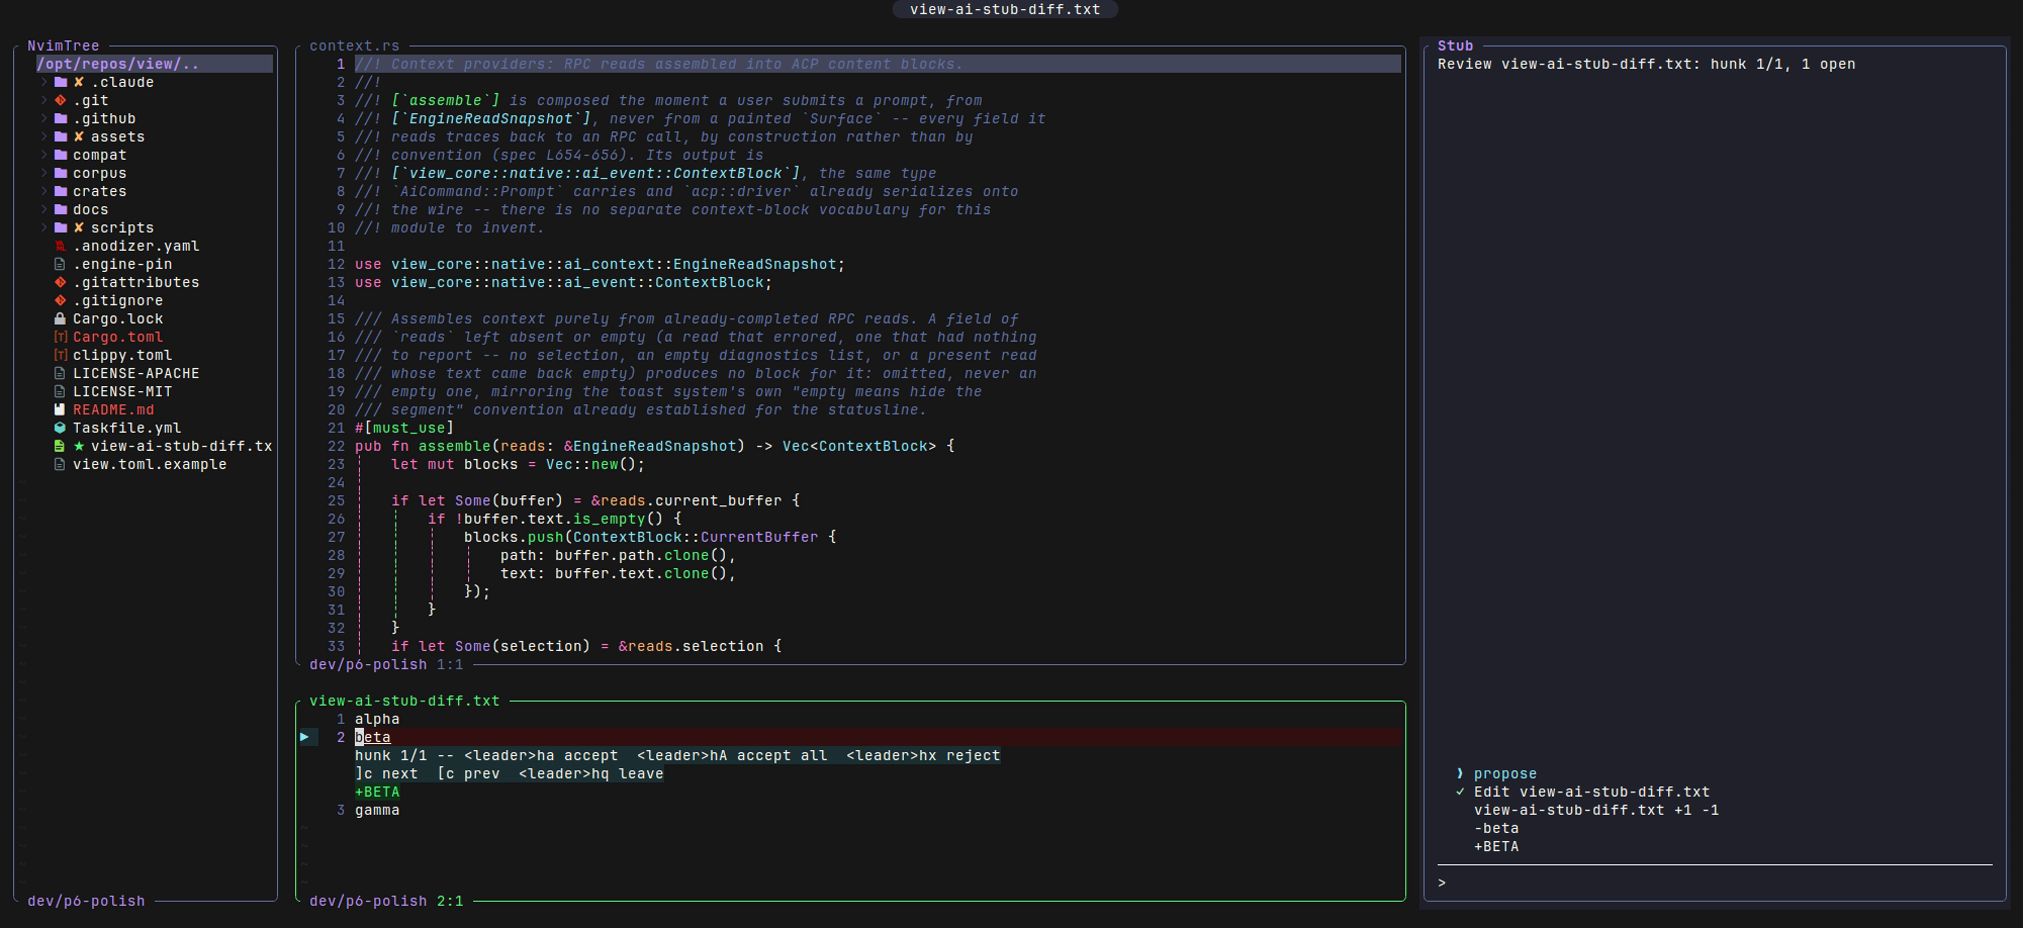
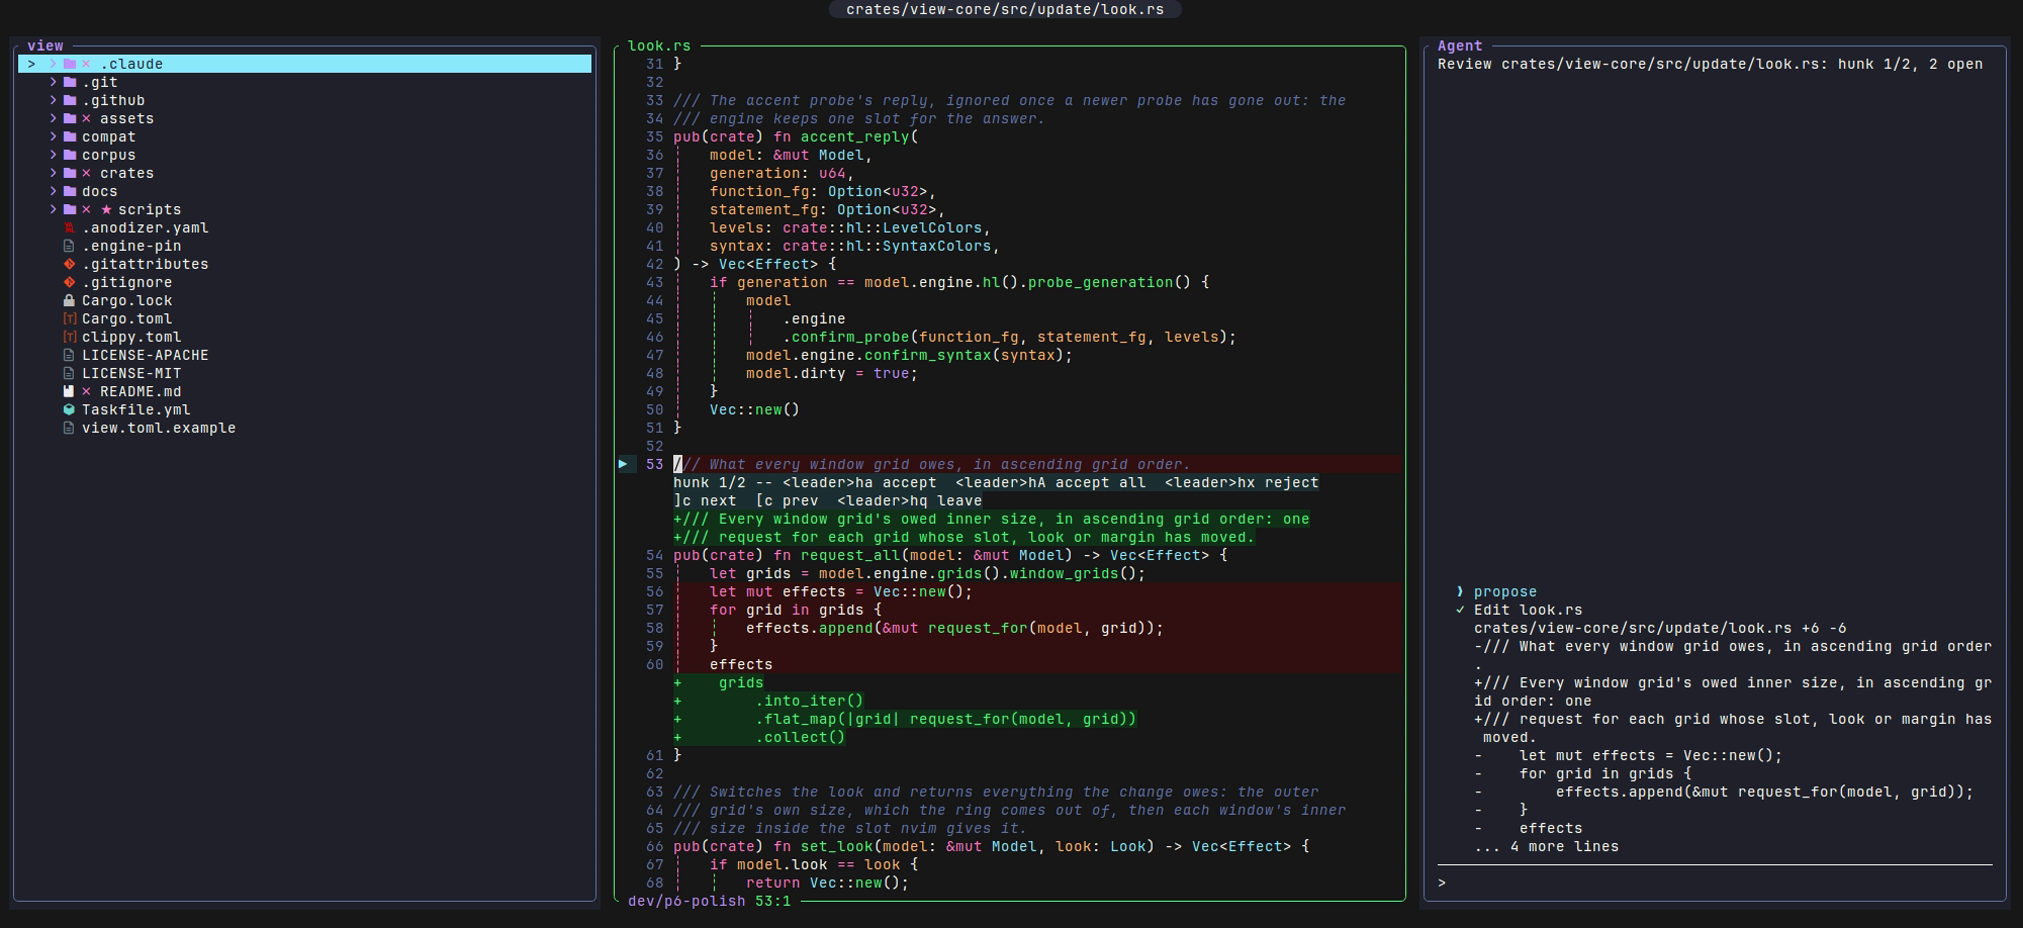
feat(demos): the README tapes show resize mode, view's own tree and a real reviewed change
The tiled-panes tape steps the Rust tile narrower and wider in resize mode
and then fits it, in place of the terminal shrink it showed before. The
hero still and the agent-panel tape close the config's nvim-tree, open
view's tree deliberately, and review a two-hunk change to a real Rust file
of this repo, with the panel titled "Agent". The stub agent takes its
title from `VIEW_AI_STUB_TITLE` and the file and text it proposes from
`VIEW_AI_STUB_DIFF_PATH` and `VIEW_AI_STUB_DIFF_NEW`, and keeps its seeded
three-line edit where neither is set.

Changed region(s): [[0.0, 0.0, 0.9965, 1.0], [0.7474, 0.0625, 0.9965, 0.0938], [0.0, 0.9688, 0.0623, 1.0]]

diff --git a/crates/view-ai/tests/fixtures/stub_agent.rs b/crates/view-ai/tests/fixtures/stub_agent.rs
@@ -13,6 +13,9 @@
 //! string-id leg below simply never finishes -- which is the regression
 //! being nailed down.
 //!
+//! `VIEW_AI_STUB_TITLE` sets the `agentInfo.title` the handshake reports
+//! (`Stub` when unset), which is the name the panel shows.
+//!
 //! Arguments, all optional and all positional: the file whose appearance
 //! releases a stalled reader, the protocol version to answer `initialize`
 //! with, the path of a file to hold an exclusive lock on for as long as
@@ -71,7 +74,11 @@
 //!   process's own working directory. Any suffix after the word (`propose2`)
 //!   picks a different edit and a different tool call id, so a second
 //!   proposal in the same session is a genuinely new one rather than a
-//!   duplicate the driver deduplicates away.
+//!   duplicate the driver deduplicates away. With `VIEW_AI_STUB_DIFF_PATH`
+//!   and `VIEW_AI_STUB_DIFF_NEW` both set, it offers to replace the
+//!   file the first names (relative to this process's working directory)
+//!   with the text of the file the second names, so a recording can review
+//!   a readable hunk in a real source file.
 //! - `read` -- send an `fs/read_text_file` request for a file inside this
 //!   process's own working directory (which is the session's, and so the
 //!   only directory the client answers for) and report what came back as a
@@ -130,6 +137,40 @@ fn diff_texts(suffix: &str) -> (&'static str, &'static str) {
     }
 }
 
+/// One `propose` leg's diff: the absolute path it edits and the text on
+/// either side.
+struct Proposal {
+    path: String,
+    old: String,
+    new: String,
+}
+
+/// The diff a `propose<suffix>` prompt offers.
+///
+/// The environment pair names a real file and its proposed text, and wins
+/// when both are set and readable; `old` is read at propose time because the
+/// client anchors hunks against what the buffer holds. Otherwise the seeded
+/// file and [`diff_texts`] for `suffix`.
+fn proposal(suffix: &str) -> Proposal {
+    let named = || {
+        let path = std::env::var("VIEW_AI_STUB_DIFF_PATH").ok()?;
+        let new = std::env::var("VIEW_AI_STUB_DIFF_NEW").ok()?;
+        Some(Proposal {
+            old: std::fs::read_to_string(&path).ok()?,
+            new: std::fs::read_to_string(new).ok()?,
+            path: named_inside_cwd(&path),
+        })
+    };
+    named().unwrap_or_else(|| {
+        let (old, new) = diff_texts(suffix);
+        Proposal {
+            path: named_inside_cwd(DIFF_FILE),
+            old: old.to_string(),
+            new: new.to_string(),
+        }
+    })
+}
+
 /// What a `session/request_permission` answer actually said, in one word:
 /// the chosen `optionId` for the wire's `"selected"` variant, the bare
 /// outcome string for `"cancelled"`, and the error code for a reply that
@@ -155,6 +196,7 @@ fn main() {
     // Taken before a single frame is served, so a client that has seen this
     // agent answer anything has also seen it take the lock.
     let liveness = liveness_lock();
+    let title = std::env::var("VIEW_AI_STUB_TITLE").unwrap_or_else(|_| "Stub".to_string());
     let stdin = std::io::stdin();
     let mut stdout = std::io::stdout();
     let mut pending_prompt: Option<serde_json::Value> = None;
@@ -299,7 +341,7 @@ fn main() {
                 serde_json::json!({
                     "protocolVersion": protocol_version(),
                     "agentCapabilities": {},
-                    "agentInfo": { "name": "stub", "title": "Stub", "version": "1.0.0" },
+                    "agentInfo": { "name": "stub", "title": title, "version": "1.0.0" },
                     "authMethods": auth_methods()
                 }),
             ),
@@ -468,15 +510,16 @@ fn main() {
                     // close rather than one it hopes is wide enough.
                     "propose-when-released" => {
                         stall();
-                        propose_diff(&mut stdout, "");
+                        propose_diff(&mut stdout, "", &proposal(""));
                         reply(
                             &mut stdout,
                             id,
                             serde_json::json!({ "stopReason": "end_turn" }),
                         );
                     }
-                    proposal if proposal.starts_with("propose") => {
-                        propose_diff(&mut stdout, &proposal["propose".len()..]);
+                    propose if propose.starts_with("propose") => {
+                        let suffix = &propose["propose".len()..];
+                        propose_diff(&mut stdout, suffix, &proposal(suffix));
                         reply(
                             &mut stdout,
                             id,
@@ -874,8 +917,11 @@ fn ask_permission_refuse(stdout: &mut std::io::Stdout, request_id: &str, tool_ca
 /// separate frame so the non-terminal status is on screen before the
 /// terminal one replaces it, rather than the call appearing already
 /// finished.
-fn propose_diff(stdout: &mut std::io::Stdout, suffix: &str) {
+fn propose_diff(stdout: &mut std::io::Stdout, suffix: &str, proposal: &Proposal) {
     let tool_call_id = format!("edit_{}", if suffix.is_empty() { "1" } else { suffix });
+    let name = std::path::Path::new(&proposal.path)
+        .file_name()
+        .map_or_else(String::new, |name| name.to_string_lossy().into_owned());
     send(
         stdout,
         &serde_json::json!({
@@ -886,7 +932,7 @@ fn propose_diff(stdout: &mut std::io::Stdout, suffix: &str) {
                 "update": {
                     "sessionUpdate": "tool_call",
                     "toolCallId": tool_call_id,
-                    "title": "Edit view-ai-stub-diff.txt",
+                    "title": format!("Edit {name}"),
                     "status": "in_progress"
                 }
             }
@@ -905,9 +951,9 @@ fn propose_diff(stdout: &mut std::io::Stdout, suffix: &str) {
                     "status": "completed",
                     "content": [{
                         "type": "diff",
-                        "path": named_inside_cwd(DIFF_FILE),
-                        "oldText": diff_texts(suffix).0,
-                        "newText": diff_texts(suffix).1
+                        "path": proposal.path,
+                        "oldText": proposal.old,
+                        "newText": proposal.new
                     }]
                 }
             }

diff --git a/crates/view-ai/tests/session.rs b/crates/view-ai/tests/session.rs
@@ -648,3 +648,111 @@ fn a_dropped_session_signals_its_agent_before_the_editor_process_is_gone() {
         ),
     }
 }
+
+/// Every frame the stub writes for an `initialize` and a `propose` prompt,
+/// run in `cwd` with `env` as the only stub variables in its environment.
+///
+/// Spawned directly and spoken to in raw frames: the environment is the
+/// input under test, and a session launch passes on only the one it was
+/// started with.
+fn stub_propose_frames(cwd: &std::path::Path, env: &[(&str, &str)]) -> Vec<serde_json::Value> {
+    use std::io::{BufRead, Write};
+    let mut child = std::process::Command::new(env!("CARGO_BIN_EXE_view-ai-stub-agent"))
+        .current_dir(cwd)
+        .env_remove("VIEW_AI_STUB_TITLE")
+        .env_remove("VIEW_AI_STUB_DIFF_PATH")
+        .env_remove("VIEW_AI_STUB_DIFF_NEW")
+        .envs(env.iter().copied())
+        .stdin(std::process::Stdio::piped())
+        .stdout(std::process::Stdio::piped())
+        .spawn()
+        .expect("the stub agent starts");
+    let mut stdin = child.stdin.take().expect("piped stdin");
+    writeln!(
+        stdin,
+        r#"{{"jsonrpc":"2.0","id":1,"method":"initialize","params":{{"protocolVersion":1}}}}"#
+    )
+    .unwrap();
+    writeln!(
+        stdin,
+        r#"{{"jsonrpc":"2.0","id":2,"method":"session/prompt","params":{{"sessionId":"sess_stub","prompt":[{{"type":"text","text":"propose"}}]}}}}"#
+    )
+    .unwrap();
+    // End of input ends the stub, so reading to its end collects every frame.
+    drop(stdin);
+    let stdout = child.stdout.take().expect("piped stdout");
+    let (tx, rx) = std::sync::mpsc::channel();
+    std::thread::spawn(move || {
+        let frames: Vec<serde_json::Value> = std::io::BufReader::new(stdout)
+            .lines()
+            .map_while(Result::ok)
+            .filter_map(|line| serde_json::from_str(&line).ok())
+            .collect();
+        let _ = tx.send(frames);
+    });
+    let frames = rx.recv_timeout(view_test_support::host_deadline(WAIT));
+    if frames.is_err() {
+        let _ = child.kill();
+    }
+    let _ = child.wait();
+    frames.expect("the stub answered and exited")
+}
+
+/// The `agentInfo.title` and the `diff` content item from `frames`.
+fn title_and_diff(frames: &[serde_json::Value]) -> (String, serde_json::Value) {
+    let title = frames
+        .iter()
+        .find_map(|frame| frame["result"]["agentInfo"]["title"].as_str())
+        .expect("the handshake reply names the agent")
+        .to_string();
+    let diff = frames
+        .iter()
+        .find(|frame| frame["params"]["update"]["sessionUpdate"] == "tool_call_update")
+        .map(|frame| frame["params"]["update"]["content"][0].clone())
+        .expect("the proposal completes its tool call");
+    (title, diff)
+}
+
+/// With the environment pair set, the stub offers the named file's on-disk
+/// text against the new text file's, under the title the environment names.
+#[test]
+fn the_stub_proposes_the_file_and_title_its_environment_names() {
+    let scratch = ScratchDir::new("ai-stub-env").unwrap();
+    std::fs::write(scratch.join("edited.rs"), "fn old() {}\n").unwrap();
+    std::fs::write(scratch.join("new.rs"), "fn new() {}\n").unwrap();
+    let frames = stub_propose_frames(
+        &scratch,
+        &[
+            ("VIEW_AI_STUB_TITLE", "Agent"),
+            ("VIEW_AI_STUB_DIFF_PATH", "edited.rs"),
+            ("VIEW_AI_STUB_DIFF_NEW", "new.rs"),
+        ],
+    );
+    let (title, diff) = title_and_diff(&frames);
+    assert_eq!(title, "Agent");
+    assert!(
+        diff["path"].as_str().unwrap().ends_with("edited.rs"),
+        "the diff names the file: {diff}"
+    );
+    assert_eq!(diff["oldText"], "fn old() {}\n");
+    assert_eq!(diff["newText"], "fn new() {}\n");
+}
+
+/// Without the environment, the stub keeps its seeded three-line proposal
+/// and its own name, which every other transport test depends on.
+#[test]
+fn the_stub_proposes_its_seeded_edit_when_the_environment_names_nothing() {
+    let scratch = ScratchDir::new("ai-stub-seed").unwrap();
+    let frames = stub_propose_frames(&scratch, &[]);
+    let (title, diff) = title_and_diff(&frames);
+    assert_eq!(title, "Stub");
+    assert!(
+        diff["path"]
+            .as_str()
+            .unwrap()
+            .ends_with("view-ai-stub-diff.txt"),
+        "the diff names the seeded file: {diff}"
+    );
+    assert_eq!(diff["oldText"], "alpha\nbeta\ngamma\n");
+    assert_eq!(diff["newText"], "alpha\nBETA\ngamma\n");
+}

diff --git a/README.md b/README.md
@@ -52,7 +52,7 @@ gap between them and your accent colour on the one you are working in. Turn
 it off with one config key, or let view read your desktop and decide. See
 [`docs/tiled-ui.md`](docs/tiled-ui.md).
 
-![a Rust file beside the README, each in its own frame, reflowing as the terminal shrinks and grows, then fitted to its code](assets/tapes/tiled-panes.gif)
+![a Rust file beside the README, each in its own frame, stepped narrower and wider in resize mode, then fitted to its code](assets/tapes/tiled-panes.gif)
 
 **Status in every frame.** Each window carries its own status along the
 bottom of its frame: the mode in the window you are working in, and the
